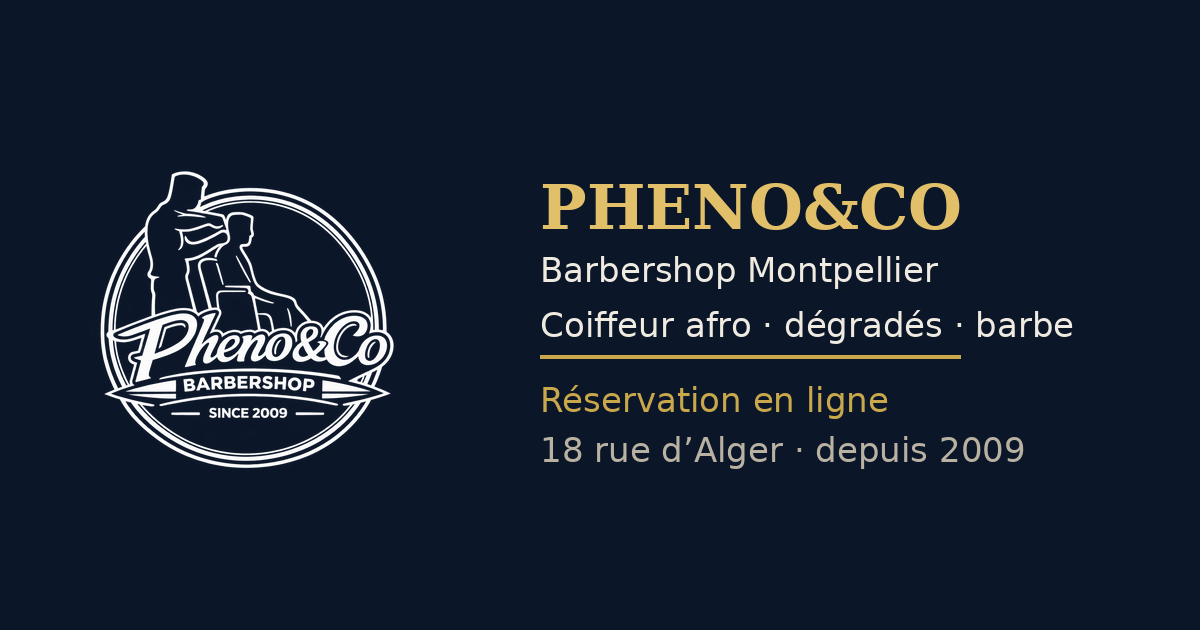
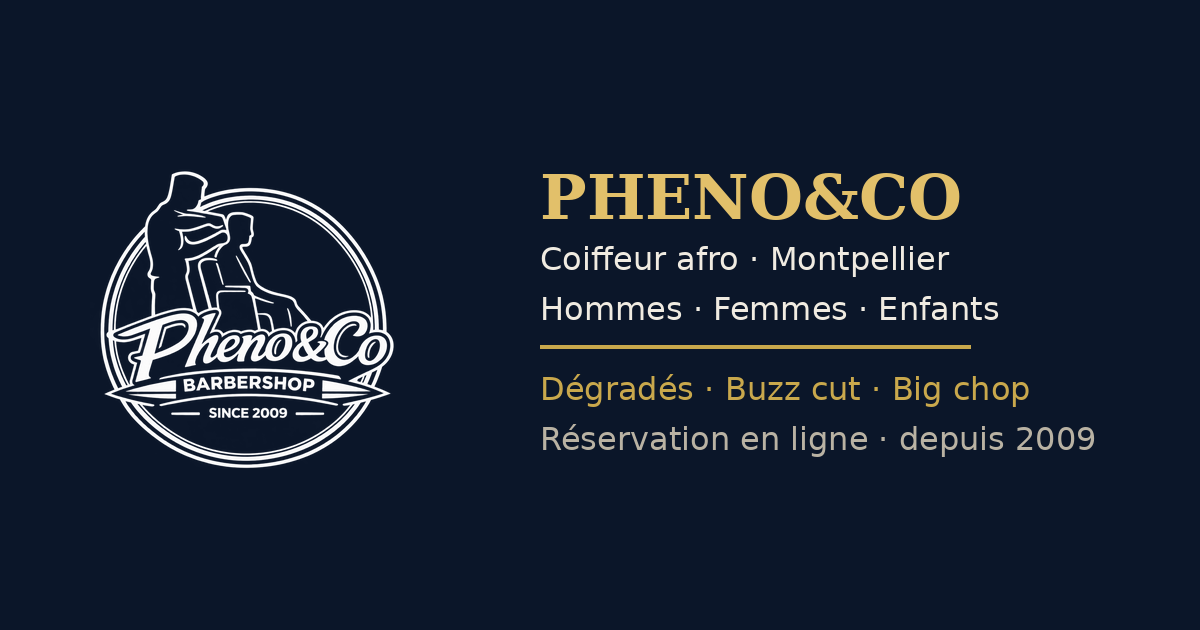
SEO : coiffeur afro hommes, femmes et enfants (buzz cut femme, big chop, coupes courtes afro, colorations), image d'aperçu mise à jour
Claude-Session: https://claude.ai/code/session_011vRjpSp1N4PaXr2PtHUHDh

Changed region(s): [[0.4317, 0.3921, 0.8942, 0.573], [0.4317, 0.6032, 0.925, 0.754], [0.4317, 0.2714, 0.8017, 0.3619]]

diff --git a/index.html b/index.html
@@ -4,9 +4,9 @@
 <meta charset="UTF-8">
 <meta name="viewport" content="width=device-width,initial-scale=1">
 <meta name="theme-color" content="#0B1629">
-<title>PHENO&amp;CO Barbershop Montpellier · Coiffeur afro, dégradés, réservation en ligne</title>
-<meta name="description" content="PHENO&amp;CO Barbershop à Montpellier (Saint-Roch) depuis 2009 : coiffeur afro, dégradés, taper, skin fade, barbe, tresses et soins. Réservez en ligne en 1 minute. 18 rue d’Alger, 34000 Montpellier.">
-<meta name="keywords" content="barbershop Montpellier, barbier Montpellier, coiffeur afro Montpellier, dégradé Montpellier, taper Montpellier, skin fade Montpellier, coiffeur homme Montpellier, PHENO&amp;CO, barbershop Saint-Roch, location fauteuil coiffure Montpellier">
+<title>PHENO&amp;CO Montpellier · Coiffeur afro hommes, femmes et enfants · Réservation en ligne</title>
+<meta name="description" content="PHENO&amp;CO à Montpellier (Saint-Roch) depuis 2009 : coiffeur afro pour hommes, femmes et enfants. Dégradés, skin fade, barbe, buzz cut femme, big chop, coupes courtes afro, colorations, tresses et soins. Réservez en ligne. 18 rue d’Alger, 34000 Montpellier.">
+<meta name="keywords" content="coiffeur afro Montpellier, coiffeuse afro Montpellier, coupe courte femme afro Montpellier, buzz cut femme Montpellier, big chop Montpellier, coloration cheveux afro Montpellier, cheveux crépus Montpellier, cheveux bouclés Montpellier, barbershop Montpellier, barbier Montpellier, dégradé Montpellier, skin fade Montpellier, coiffeur enfant Montpellier, tresses Montpellier, PHENO&amp;CO, Saint-Roch, location fauteuil coiffure Montpellier">
 <meta name="robots" content="index, follow">
 <link rel="canonical" href="https://phenoandco.com/">
 <link rel="icon" href="icon-192.png">
@@ -14,8 +14,8 @@
 <meta property="og:type" content="website">
 <meta property="og:locale" content="fr_FR">
 <meta property="og:site_name" content="PHENO&amp;CO Barbershop">
-<meta property="og:title" content="PHENO&amp;CO Barbershop Montpellier · Réservation en ligne">
-<meta property="og:description" content="Barbershop à Montpellier depuis 2009 : dégradés, coiffure afro, barbe et soins. Réservez en ligne.">
+<meta property="og:title" content="PHENO&amp;CO Montpellier · Coiffeur afro hommes, femmes et enfants">
+<meta property="og:description" content="Depuis 2009 à Montpellier : dégradés, barbe, buzz cut femme, big chop, coupes courtes afro, colorations et soins. Réservez en ligne.">
 <meta property="og:url" content="https://phenoandco.com/">
 <meta property="og:image" content="https://phenoandco.netlify.app/og-image.png">
 <meta property="og:image:width" content="1200">
@@ -25,10 +25,11 @@
 <script type="application/ld+json">
 {
   "@context": "https://schema.org",
-  "@type": "BarberShop",
+  "@type": ["BarberShop", "HairSalon"],
   "name": "PHENO&CO Barbershop",
   "alternateName": "HBC Coiffure",
-  "description": "Barbershop à Montpellier depuis 2009 : coiffure afro, dégradés, taper, skin fade, barbe, tresses et soins. Location de fauteuil pour coiffeurs.",
+  "description": "Salon de coiffure afro et barbershop à Montpellier depuis 2009, pour hommes, femmes et enfants : dégradés, skin fade, barbe, buzz cut femme, big chop, coupes courtes afro, colorations, tresses et soins. Location de fauteuil pour coiffeurs.",
+  "knowsAbout": ["coiffure afro", "cheveux crépus", "cheveux bouclés", "dégradé", "skin fade", "barbe", "buzz cut femme", "big chop", "coloration", "tresses"],
   "url": "https://phenoandco.com/",
   "image": "https://phenoandco.netlify.app/og-image.png",
   "logo": "https://phenoandco.netlify.app/icon-192.png",
@@ -887,7 +888,7 @@ html, body {
 
 <!-- WELCOME -->
 <div id="s0" class="screen active">
-<h1 style="position:absolute;width:1px;height:1px;overflow:hidden;clip:rect(0 0 0 0);white-space:nowrap">PHENO&amp;CO Barbershop Montpellier : coiffeur afro, dégradés et barbe, réservation en ligne</h1>
+<h1 style="position:absolute;width:1px;height:1px;overflow:hidden;clip:rect(0 0 0 0);white-space:nowrap">PHENO&amp;CO Montpellier : coiffeur afro pour hommes, femmes et enfants, dégradés, barbe, buzz cut et big chop, réservation en ligne</h1>
 <!-- TOP BAR -->
 <div class="top">
   <button class="top-btn" onclick="toggleDD()" aria-label="Menu">
